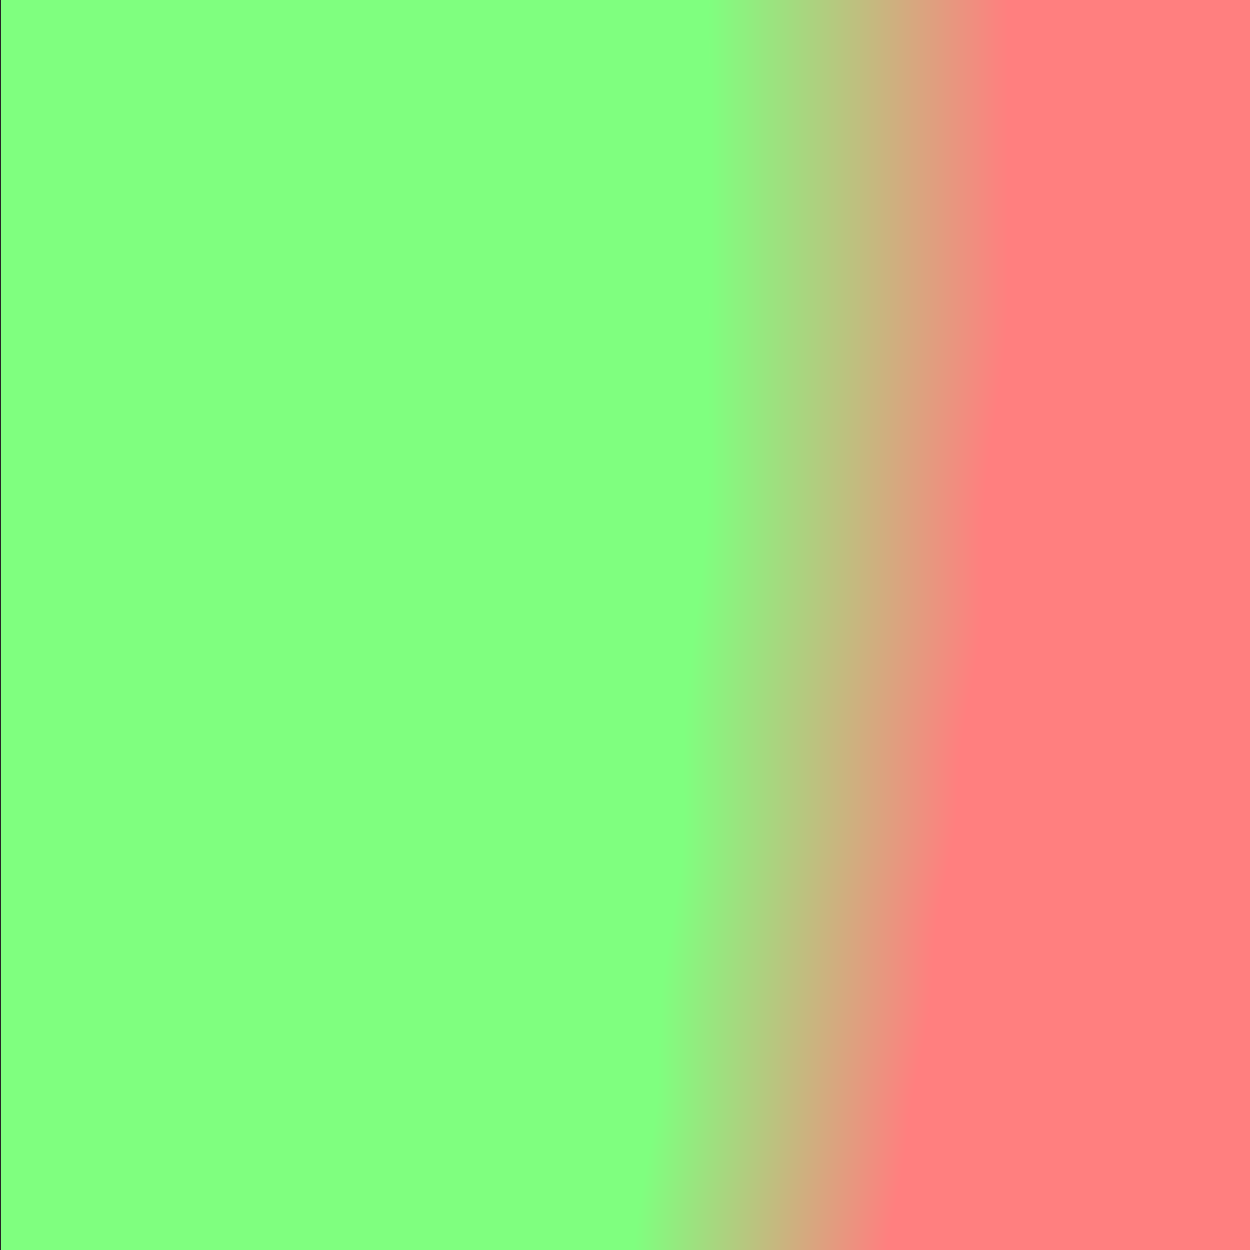
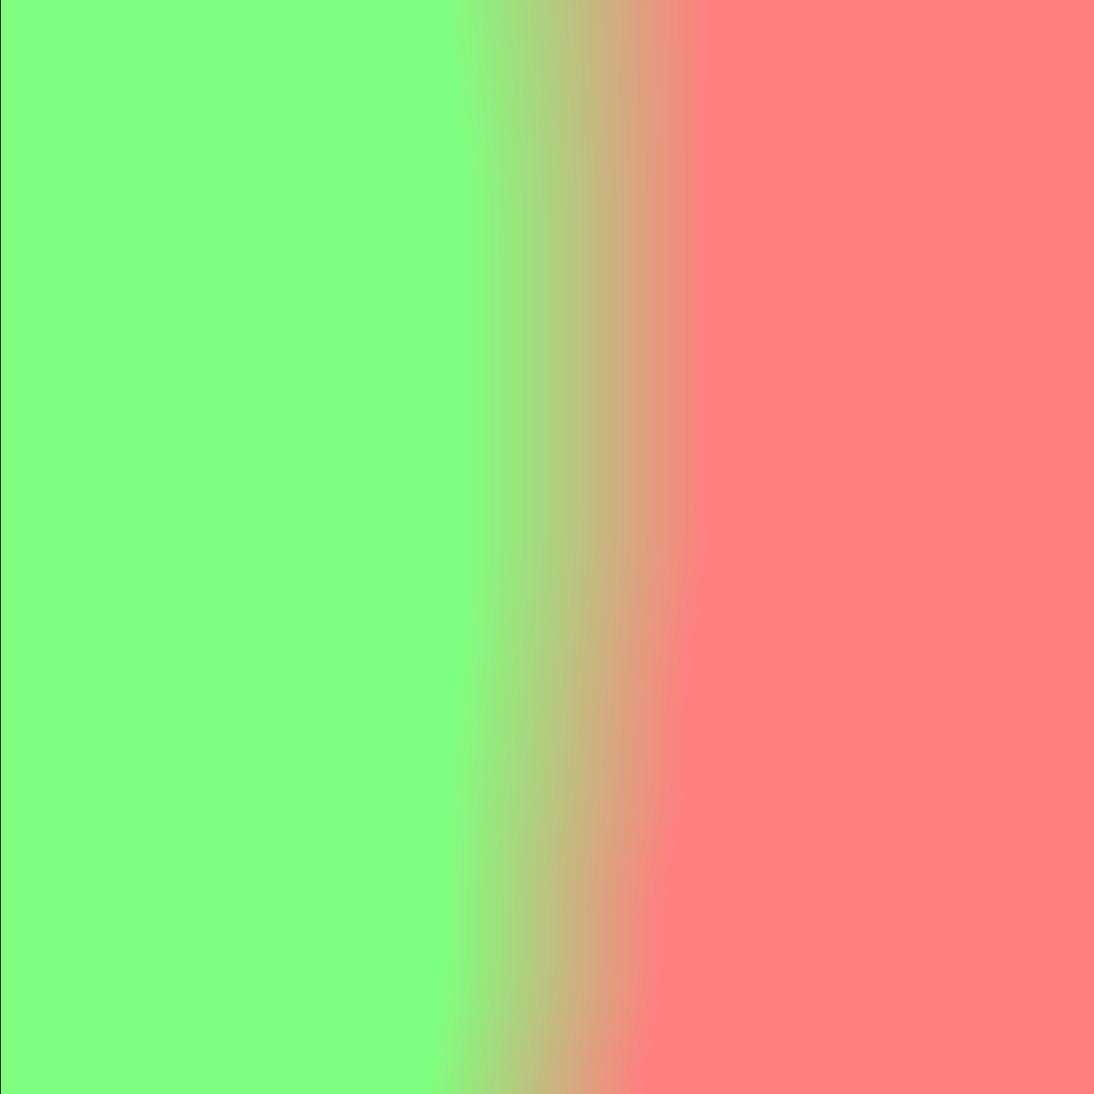
Update logic to scale color map to match DHA image

Changed region(s): [[0.404, 0.0, 0.777, 1.0]]

diff --git a/MergePictures/MergeImage/OverwritePixel.cs b/MergePictures/MergeImage/OverwritePixel.cs
@@ -31,8 +31,9 @@ namespace MergeImage
 
         public Bitmap OverwriteWithoutPlotBackground()
         {
-            var from = GetScaledImage(_fromImageFile);
-            var to = GetScaledImage(_toImageFile);
+            //var from = GetScaledColorImage(_fromImageFile);
+            var from = new Bitmap(_fromImageFile);
+            var to = GetScaledColorImage(_toImageFile);
 
             for (int y = 0; y < from.Height; y++)
             {
@@ -47,11 +48,12 @@ namespace MergeImage
 
         public Bitmap OverwriteWithPlotBackground()
         {
-            var from = GetScaledImage(_fromImageFile);
-            var to = GetScaledImage(_toImageFile);
+            //var from = GetScaledColorImage(_fromImageFile);
+            var from = new Bitmap(_fromImageFile);
+            var to = GetScaledColorImage(_toImageFile);
 
             var newFrom = Overwrite(from, to);
-            to = GetScaledImage(_toImageFile);
+            to = GetScaledColorImage(_toImageFile);
             return RefillColorToOutOfPlot(newFrom, to);
         }
 
@@ -159,7 +161,8 @@ namespace MergeImage
             }
         }
 
-        private Bitmap GetScaledImage(string imageFile)
+        // FIXME: can only scale color map
+        private Bitmap GetScaledColorImage(string imageFile)
         {
             var from = new Bitmap(_fromImageFile);
             var to = new Bitmap(_toImageFile);
@@ -171,14 +174,11 @@ namespace MergeImage
                 if (!_settings.NeedScale)
                     throw new ArgumentException("Merging pictures don't have the same size");
 
-                int minWidth = Math.Min(from.Width, to.Width);
-                int minHeight = Math.Min(from.Height, to.Height);
-
                 // for debugging:
                 //from.Save("from.jpg", ImageFormat.Jpeg);
                 //to.Save("to.jpg", ImageFormat.Jpeg);
-
-                return new Bitmap(returnImage, new Size(minWidth, minHeight));
+                
+                return new Bitmap(returnImage, new Size(from.Width, from.Height));
             }
 
             return returnImage;

diff --git a/MergePictures/MergeImage/MergePictureHelpers.cs b/MergePictures/MergeImage/MergePictureHelpers.cs
@@ -34,11 +34,22 @@ namespace MergeImage
             return overwrite.OverwriteWithPlotBackground();
         }
 
-        public static void SaveAs(this Bitmap source, string fileName, ImageFormat format) =>
+        public static void SaveAs(this Bitmap source, string fileName, ImageFormat format)
+        {
+            string path = Path.GetDirectoryName(fileName);
+            if (!Directory.Exists(path))
+            {
+                Directory.CreateDirectory(path);
+            }
             source.Save(fileName, format);
+        }            
 
         // todo: format can be set from app settings
-        public static void Save(this Bitmap source) =>
-            SaveAs(source, NewImageFile, ImageFormat.Jpeg);
+        public static string Save(this Bitmap source)
+        {
+            var imageFile = NewImageFile;
+            SaveAs(source, imageFile, ImageFormat.Jpeg);
+            return imageFile;
+        }            
     }
 }

diff --git a/MergePictures/MergePictures/Program.cs b/MergePictures/MergePictures/Program.cs
@@ -10,7 +10,7 @@ namespace MergeImage
             if (args.Length.Equals(2) || args.Length.Equals(3))
             {
 
-                Console.WriteLine($"Merge {args[0]} to color map {args[1]}");
+                Console.Write($"Merge {args[0]} to color map {args[1]}");
 
                 //var merge = MergePictureHelpers.MergeImages(args[0], args[1]);
                 //merge.Save();
@@ -19,10 +19,12 @@ namespace MergeImage
                 if (args.Length.Equals(3))
                 {
                     mergeAll.SaveAs(args[2], ImageFormat.Jpeg);
+                    Console.WriteLine($" with name {args[2]}");
                 }
                 else
                 {
-                    mergeAll.Save();
+                    var fileName = mergeAll.Save();
+                    Console.WriteLine($" with name {fileName}");
                 }
             }
         }

diff --git a/MergePictures/UnitTest/MergeImageTests.cs b/MergePictures/UnitTest/MergeImageTests.cs
@@ -6,7 +6,7 @@ namespace UnitTest
     [TestClass]
     [DeploymentItem("Samples", "Samples")]
     [DeploymentItem("Settings.json")]
-    public class MergeImageTests
+    public class UnitTest
     {
         private const string from = @"Samples\DHA.png";
         private const string to = @"Samples\ColorMap.png";
